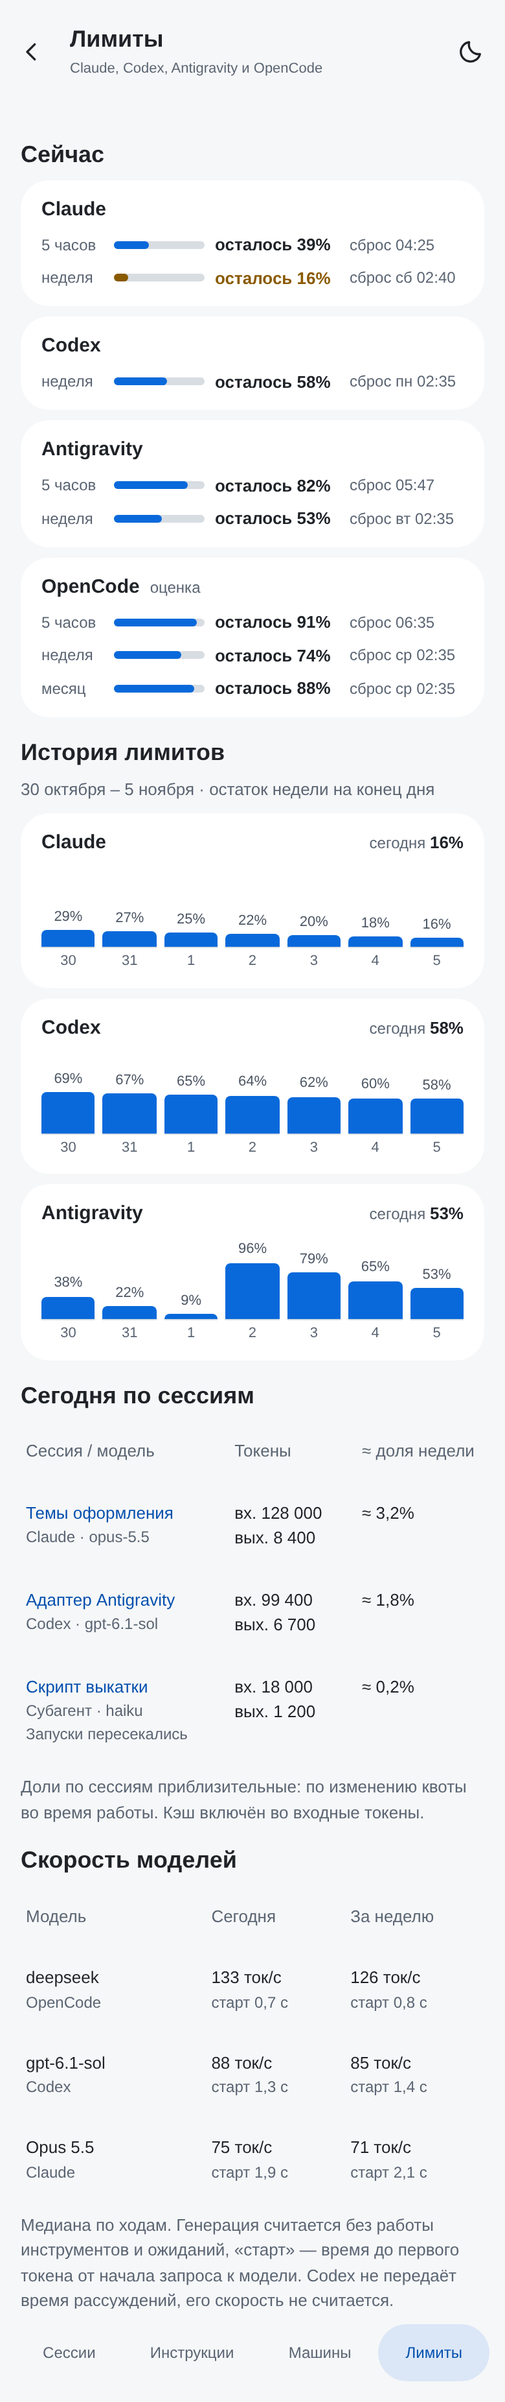
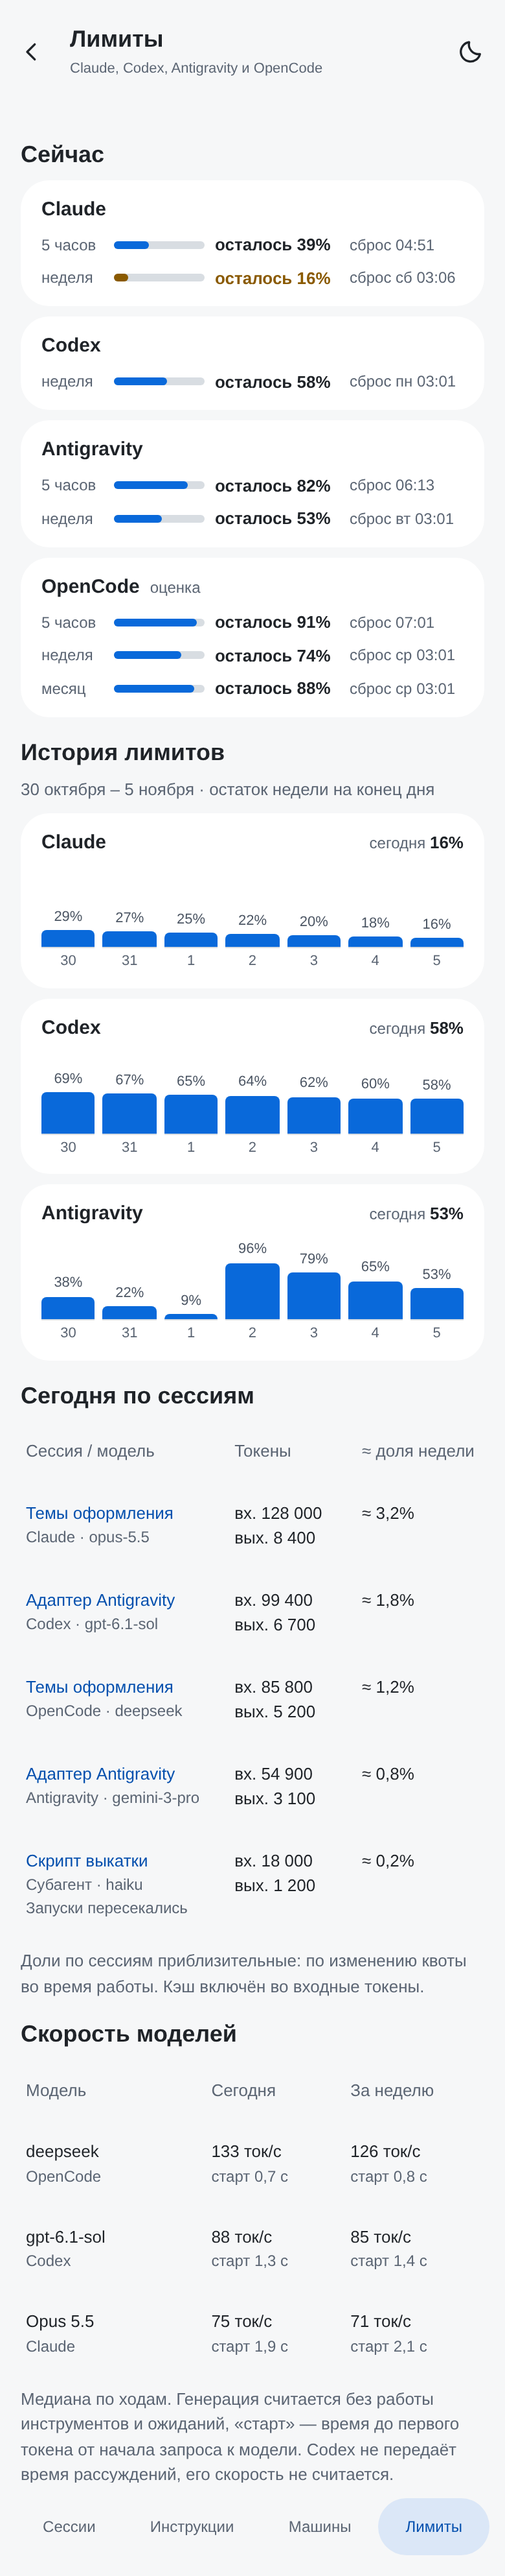
Показывать всех провайдеров в расходе по сессиям

diff --git a/web/e2e/screenshots/readme.spec.ts b/web/e2e/screenshots/readme.spec.ts
@@ -501,78 +501,52 @@ test.describe('скриншоты README для телефона', () => {
           period: { runs: 19, tokens_per_second: 126.4, first_token_ms: 800 }
         }]
       }[provider] ?? [];
-      if (provider === 'opencode') {
-        await route.fulfill({ json: { series: [], usage: [], speed } });
-        return;
-      }
-      const series = provider === 'claude'
-        ? [{
-            provider,
-            five_hour: days.map((day, index) => ({
-              observed_at: day.toISOString(),
-              used_permille: 520 + index * 40,
-              used_pct: (520 + index * 40) / 10
-            })),
-            weekly: days.map((day, index) => ({
-              observed_at: day.toISOString(),
-              used_permille: 710 + index * 22,
-              used_pct: (710 + index * 22) / 10
-            }))
-          }]
-        : [{
-            provider,
-            five_hour: [],
-            weekly: days.map((day, index) => {
-              // У Antigravity неделя сбросилась посреди периода: столбики снова высокие.
-              const used = provider === 'antigravity' ? [620, 780, 910, 40, 210, 350, 470][index]! : 310 + index * 18;
-              return { observed_at: day.toISOString(), used_permille: used, used_pct: used / 10 };
-            })
-          }];
-      const usage = provider === 'claude'
-        ? [
-            {
-              day: dayKey(days.at(-1)!),
-              conversation_id: ids.themes,
+      const series = provider === 'opencode'
+        ? []
+        : provider === 'claude'
+          ? [{
               provider,
-              agent: 'main',
-              model: 'opus-5.5',
-              input_tokens: 126_000,
-              output_tokens: 8_400,
-              cache_read_tokens: 0,
-              cache_write_tokens: 2_000,
-              weekly_delta_permille: 32,
-              runs: 3,
-              overlapped_runs: 0
-            },
-            {
-              day: dayKey(days.at(-1)!),
-              conversation_id: ids.pinned,
+              five_hour: days.map((day, index) => ({
+                observed_at: day.toISOString(),
+                used_permille: 520 + index * 40,
+                used_pct: (520 + index * 40) / 10
+              })),
+              weekly: days.map((day, index) => ({
+                observed_at: day.toISOString(),
+                used_permille: 710 + index * 22,
+                used_pct: (710 + index * 22) / 10
+              }))
+            }]
+          : [{
               provider,
-              agent: 'agent-1',
-              model: 'haiku',
-              input_tokens: 18_000,
-              output_tokens: 1_200,
-              cache_read_tokens: 0,
-              cache_write_tokens: 0,
-              weekly_delta_permille: 2,
-              runs: 1,
-              overlapped_runs: 1
-            }
-          ]
-        : [{
-            day: dayKey(days.at(-1)!),
-            conversation_id: ids.adapter,
-            provider,
-            agent: 'main',
-            model: 'gpt-6.1-sol',
-            input_tokens: 98_000,
-            output_tokens: 6_700,
-            cache_read_tokens: 0,
-            cache_write_tokens: 1_400,
-            weekly_delta_permille: 18,
-            runs: 2,
-            overlapped_runs: 0
-          }];
+              five_hour: [],
+              weekly: days.map((day, index) => {
+                // У Antigravity неделя сбросилась посреди периода: столбики снова высокие.
+                const used = provider === 'antigravity' ? [620, 780, 910, 40, 210, 350, 470][index]! : 310 + index * 18;
+                return { observed_at: day.toISOString(), used_permille: used, used_pct: used / 10 };
+              })
+            }];
+      const usageRow = (patch: Record<string, unknown>) => ({
+        day: dayKey(days.at(-1)!),
+        provider,
+        agent: 'main',
+        input_tokens: 0,
+        output_tokens: 0,
+        cache_read_tokens: 0,
+        cache_write_tokens: 0,
+        runs: 1,
+        overlapped_runs: 0,
+        ...patch
+      });
+      const usage = {
+        claude: [
+          usageRow({ conversation_id: ids.themes, model: 'opus-5.5', input_tokens: 126_000, output_tokens: 8_400, cache_write_tokens: 2_000, weekly_delta_permille: 32, runs: 3 }),
+          usageRow({ conversation_id: ids.pinned, agent: 'agent-1', model: 'haiku', input_tokens: 18_000, output_tokens: 1_200, weekly_delta_permille: 2, overlapped_runs: 1 })
+        ],
+        codex: [usageRow({ conversation_id: ids.adapter, model: 'gpt-6.1-sol', input_tokens: 98_000, output_tokens: 6_700, cache_write_tokens: 1_400, weekly_delta_permille: 18, runs: 2 })],
+        opencode: [usageRow({ conversation_id: ids.themes, model: 'deepseek', input_tokens: 84_000, output_tokens: 5_200, cache_write_tokens: 1_800, weekly_delta_permille: 12, runs: 2 })],
+        antigravity: [usageRow({ conversation_id: ids.adapter, model: 'gemini-3-pro', input_tokens: 54_000, output_tokens: 3_100, cache_write_tokens: 900, weekly_delta_permille: 8 })]
+      }[provider] ?? [];
       await route.fulfill({ json: { series, usage, speed } });
     });
     await page.goto('/limits');
@@ -580,6 +554,11 @@ test.describe('скриншоты README для телефона', () => {
     await expect(page.getByRole('heading', { name: 'История лимитов' })).toBeVisible();
     await expect(page.getByRole('table', { name: 'Скорость моделей' })).toBeVisible();
     await expect(page.getByRole('table', { name: 'Скорость моделей' })).toContainText('deepseek');
+    // Расход по сессиям показывает все четыре провайдера, а не только Claude и Codex.
+    const usage = page.getByRole('table', { name: 'Сегодня по сессиям' });
+    await expect(usage.locator('tbody tr')).toHaveCount(5);
+    await expect(usage.locator('tbody tr').filter({ hasText: 'OpenCode · deepseek' })).toHaveCount(1);
+    await expect(usage.locator('tbody tr').filter({ hasText: 'Antigravity · gemini-3-pro' })).toHaveCount(1);
     // Прокручиваем весь экран истории: в кадр попадают график, текущие лимиты, расход и скорость.
     await page.setViewportSize({ width: 390, height: Math.max(844, await page.locator('.secondary-body').evaluate((node) => node.scrollHeight + 120)) });
     await page.locator('.secondary-body').evaluate((node) => { node.scrollTop = 0; });

diff --git a/web/src/lib/screens/limits/model.ts b/web/src/lib/screens/limits/model.ts
@@ -78,18 +78,36 @@ export function limitsSubtitle(providers: { provider: string }[]): string {
   if (names.length <= 1) return names[0] ?? '';
   return `${names.slice(0, -1).join(', ')} и ${names.at(-1)}`;
 }
-export function usageRows(usage: Usage[], day: string, sessions: ReadonlyMap<string, { title: string }>) {
-  return usage.filter(row => row.day === day).sort((a, b) => b.weekly_delta_permille - a.weekly_delta_permille).map(row => ({
-    id: `${row.provider}:${row.conversation_id}:${row.agent}:${row.model}`,
-    conversationId: row.conversation_id,
-    title: sessions.get(row.conversation_id)?.title ?? `Сессия ${row.conversation_id.slice(0, 8)}`,
-    detail: `${row.agent === 'main' ? providerLabel(row.provider) : 'Субагент'} · ${row.model}`,
-    input: row.input_tokens + row.cache_read_tokens + row.cache_write_tokens,
-    output: row.output_tokens, delta: row.weekly_delta_permille,
-    // Квота измеряется за время работы, а не по каждому отдельному токену.
-    approximate: true,
-    overlapped: row.overlapped_runs > 0
-  }));
+/** Провайдеры, у которых в текущем снимке есть недельное окно. */
+export function providersWithWeekly(providers: ProviderLimits[]): ReadonlySet<string> {
+  return new Set(providers.filter(row => row.weekly).map(row => row.provider));
+}
+
+export function usageRows(usage: Usage[], day: string, sessions: ReadonlyMap<string, { title: string }>, weekly: ReadonlySet<string>) {
+  return usage
+    .filter(row => row.day === day)
+    .map(row => {
+      const input = row.input_tokens + row.cache_read_tokens + row.cache_write_tokens;
+      return {
+        id: `${row.provider}:${row.conversation_id}:${row.agent}:${row.model}`,
+        conversationId: row.conversation_id,
+        title: sessions.get(row.conversation_id)?.title ?? `Сессия ${row.conversation_id.slice(0, 8)}`,
+        detail: `${row.agent === 'main' ? providerLabel(row.provider) : 'Субагент'} · ${row.model}`,
+        input,
+        output: row.output_tokens, delta: row.weekly_delta_permille,
+        // Без недельного окна долю показать нечем: «≈ 0%» читалось бы как настоящее измерение.
+        weekly: weekly.has(row.provider),
+        tokens: input + row.output_tokens,
+        // Квота измеряется за время работы, а не по каждому отдельному токену.
+        approximate: true,
+        overlapped: row.overlapped_runs > 0
+      };
+    })
+    .sort((a, b) => {
+      if (a.weekly !== b.weekly) return a.weekly ? -1 : 1;
+      if (a.weekly && a.delta !== b.delta) return b.delta - a.delta;
+      return b.tokens - a.tokens;
+    });
 }
 
 type Speed = components['schemas']['ModelSpeedSummary'];

diff --git a/web/src/lib/screens/limits/LimitsScreen.svelte b/web/src/lib/screens/limits/LimitsScreen.svelte
@@ -15,7 +15,7 @@
   import UsageTable from './UsageTable.svelte';
   import SpeedTable from './SpeedTable.svelte';
   import Button from '#lib/ui/Button.svelte';
-  import { limitsSubtitle, sevenDays, usageRows, historyRange, speedRows, currentBlocks, historyCharts } from './model.js';
+  import { limitsSubtitle, sevenDays, usageRows, historyRange, speedRows, currentBlocks, historyCharts, providersWithWeekly } from './model.js';
   import '../secondary.css';
   let runtime = $state<Runtime | null>(null);
   let series = $state<components['schemas']['ProviderSeries'][]>([]);
@@ -24,7 +24,8 @@
   let days = $state<string[]>([]); let zone = $state(''); let error = $state(''); let loading = $state(true);
   const now = $derived.by(() => { void ticker.second; return clock.serverNow(); });
   let thresholds = $state({ stale_after_secs: 2100, warn_pcts: [80, 95], weekly_reserve_pct: 95 });
-  const rows = $derived(usageRows(usage, days.at(-1) ?? '', runtime?.list.items ?? new Map()));
+  const weekly = $derived(providersWithWeekly(runtime?.list.limits ?? []));
+  const rows = $derived(usageRows(usage, days.at(-1) ?? '', runtime?.list.items ?? new Map(), weekly));
   const subtitle = $derived(limitsSubtitle(runtime?.list.limits ?? []));
   const blocks = $derived(currentBlocks(runtime?.list.limits ?? [], now, thresholds));
   const charts = $derived(historyCharts(series, days, zone));
@@ -35,9 +36,9 @@
       runtime = rt; thresholds = cfg.limit_thresholds;
       zone = Intl.DateTimeFormat().resolvedOptions().timeZone; days = sevenDays(new Date(clock.serverNow()));
       const range = historyRange(new Date(clock.serverNow()));
-      // История и скорость — по всем провайдерам; расход по сессиям остаётся у Claude и Codex.
+      // История, расход и скорость — по всем провайдерам.
       const replies = await Promise.all(['claude', 'codex', 'opencode', 'antigravity'].map(provider => limitsHistory({ provider, ...range, tz: zone })));
-      series = replies.flatMap(r => r.data.series); usage = replies.slice(0, 2).flatMap(r => r.data.usage);
+      series = replies.flatMap(r => r.data.series); usage = replies.flatMap(r => r.data.usage);
       speed = replies.flatMap(r => r.data.speed ?? []);
     } catch (err) { error = err instanceof ApiError ? `История недоступна: ${err.message}` : 'История недоступна: нет связи с хабом'; }
     finally { loading = false; }

diff --git a/web/tests/unit/screens/limits.test.ts b/web/tests/unit/screens/limits.test.ts
@@ -1,5 +1,23 @@
 import { describe, expect, it } from "vitest";
-import { limitsSubtitle, speedRows } from "#lib/screens/limits/model.js";
+import { limitsSubtitle, speedRows, usageRows } from "#lib/screens/limits/model.js";
+import type { components } from "#lib/api/generated/openapi.js";
+
+type Usage = components["schemas"]["UsageDay"];
+const usage = (patch: Partial<Usage>): Usage => ({
+  day: "2026-10-29",
+  conversation_id: "abcdef12-0000",
+  provider: "claude",
+  agent: "main",
+  model: "opus",
+  input_tokens: 100,
+  output_tokens: 10,
+  cache_read_tokens: 20,
+  cache_write_tokens: 30,
+  weekly_delta_permille: 20,
+  overlapped_runs: 0,
+  runs: 1,
+  ...patch,
+});
 
 describe("screens/limits", () => {
   it("subtitle_names_every_provider_the_page_shows", () => {
@@ -41,6 +59,19 @@ describe("screens/limits", () => {
     expect(rows[0]?.today).toEqual({ speed: null, firstToken: null });
     expect(rows[0]?.period).toEqual({ speed: "1 240 ток/с", firstToken: "старт 0,4 с" });
     expect(rows[1]?.provider).toBe("Claude");
+  });
+
+  it("usage_rows_put_providers_without_a_weekly_window_after_rows_with_a_number", () => {
+    const rows = usageRows([
+      usage({ provider: "opencode", model: "free-large", weekly_delta_permille: 50, input_tokens: 50_000, output_tokens: 5_000 }),
+      usage({ provider: "claude", model: "opus", weekly_delta_permille: 10, input_tokens: 1_000, output_tokens: 100 }),
+      usage({ provider: "antigravity", model: "gemini", weekly_delta_permille: 2, input_tokens: 2_000, output_tokens: 200 }),
+      usage({ provider: "opencode", model: "free-small", weekly_delta_permille: 1, input_tokens: 900, output_tokens: 100 }),
+    ], "2026-10-29", new Map(), new Set(["claude", "antigravity"]));
+
+    expect(rows.map((row) => row.detail.split(" · ").at(-1))).toEqual(["opus", "gemini", "free-large", "free-small"]);
+    expect(rows.map((row) => row.weekly)).toEqual([true, true, false, false]);
+    expect(rows.map((row) => row.delta)).toEqual([10, 2, 50, 1]);
   });
 });
 

diff --git a/web/src/lib/screens/limits/UsageTable.svelte b/web/src/lib/screens/limits/UsageTable.svelte
@@ -7,7 +7,7 @@
 <h2>Сегодня по сессиям</h2>
 {#if rows.length}
   <table aria-label="Сегодня по сессиям"><thead><tr><th>Сессия / модель</th><th>Токены</th><th>≈ доля недели</th></tr></thead><tbody>
-    {#each rows as row (row.id)}<tr><td><a href={resolve('/c/[id]', { id: row.conversationId })}>{row.title}</a><small>{row.detail}</small>{#if row.overlapped}<small>Запуски пересекались</small>{/if}</td><td><span class="count">вх. {fmt.tokens(row.input)}</span><span class="count">вых. {fmt.tokens(row.output)}</span></td><td><span class="count">{fmt.pctApprox(row.delta)}</span></td></tr>{/each}
+    {#each rows as row (row.id)}<tr><td><a href={resolve('/c/[id]', { id: row.conversationId })}>{row.title}</a><small>{row.detail}</small>{#if row.overlapped}<small>Запуски пересекались</small>{/if}</td><td><span class="count">вх. {fmt.tokens(row.input)}</span><span class="count">вых. {fmt.tokens(row.output)}</span></td><td><span class="count">{row.weekly ? fmt.pctApprox(row.delta) : '—'}</span></td></tr>{/each}
   </tbody></table>
 {:else}<p class="note">Сегодня завершённых запусков ещё нет</p>{/if}
 <p class="note">Доли по сессиям приблизительные: по изменению квоты во время работы. Кэш включён во входные токены.</p>

diff --git a/web/tests/unit/pwa/secondary.test.ts b/web/tests/unit/pwa/secondary.test.ts
@@ -27,11 +27,11 @@ describe('Task 9b', () => {
     expect(model[0]?.days[1]).toMatchObject({ value: 4, text: '4%' });
   });
   it('usage_table_orders_by_weekly_delta_and_marks_estimates_and_agent_rows', () => {
-    const rows = usageRows([usage({ weekly_delta_permille: 2, agent: 'agent-1', model: 'haiku', overlapped_runs: 1 }), usage({ weekly_delta_permille: 32 }), usage({ day: '2026-10-28' })], '2026-10-29', new Map([['abcdef12-0000', { title: 'Поток' }]]));
+    const rows = usageRows([usage({ weekly_delta_permille: 2, agent: 'agent-1', model: 'haiku', overlapped_runs: 1 }), usage({ weekly_delta_permille: 32 }), usage({ day: '2026-10-28' })], '2026-10-29', new Map([['abcdef12-0000', { title: 'Поток' }]]), new Set(['claude']));
     expect(rows.map(r => r.delta)).toEqual([32, 2]);
     expect(rows[0]).toMatchObject({ title: 'Поток', input: 150, approximate: true });
     expect(rows[1]).toMatchObject({ detail: 'Субагент · haiku', approximate: true });
-    expect(usageRows([usage({})], '2026-10-29', new Map())[0]?.title).toBe('Сессия abcdef12');
+    expect(usageRows([usage({})], '2026-10-29', new Map(), new Set(['claude']))[0]?.title).toBe('Сессия abcdef12');
   });
   it('share_picker_attaches_files_and_appends_text_and_url_to_the_draft', async () => {
     const file = new File(['payload'], 'notes.txt');

diff --git a/web/e2e/ui/limits.spec.ts b/web/e2e/ui/limits.spec.ts
@@ -36,6 +36,11 @@ test('limits_page_puts_current_first_and_draws_one_weekly_chart_per_provider', a
   // Приблизительность сказана один раз заголовком «≈» и примечанием, а не в каждой строке.
   await expect(main.getByText('приблизительно', { exact: true })).toHaveCount(0);
   const usage = main.getByRole('table', { name: 'Сегодня по сессиям' });
+  // Провайдер без недельного окна всё равно виден, но вместо выдуманного «≈ 0%» стоит прочерк.
+  const antigravity = usage.locator('tbody tr').filter({ hasText: 'Antigravity' });
+  await expect(antigravity).toHaveCount(1);
+  await expect(antigravity.locator('td').nth(2)).toHaveText('—');
+  await expect(usage.locator('tbody tr').last().locator('td').nth(2)).toHaveText('—');
   // Числа токенов не рвутся посреди разрядов, а ссылка на сессию — полноценная цель нажатия.
   for (const count of await usage.locator('.count').all()) expect(await count.evaluate((node) => node.getClientRects().length)).toBe(1);
   await expect(usage.locator('.count').first()).toHaveText(/^вх\. [\d ]+$/);
